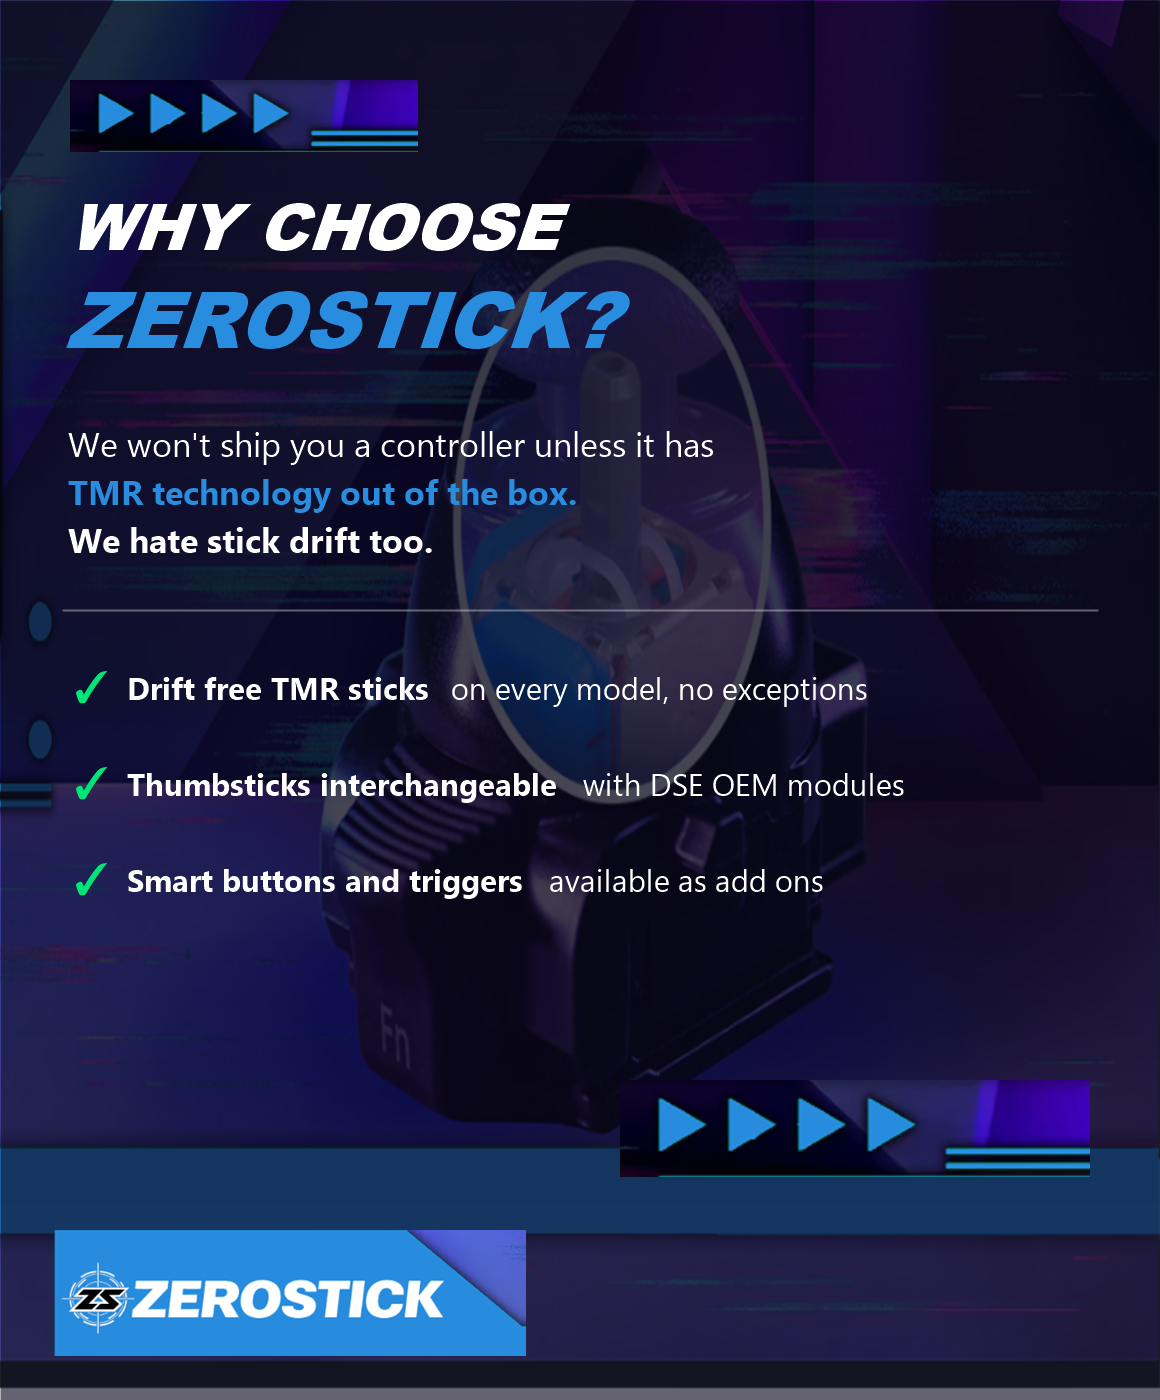
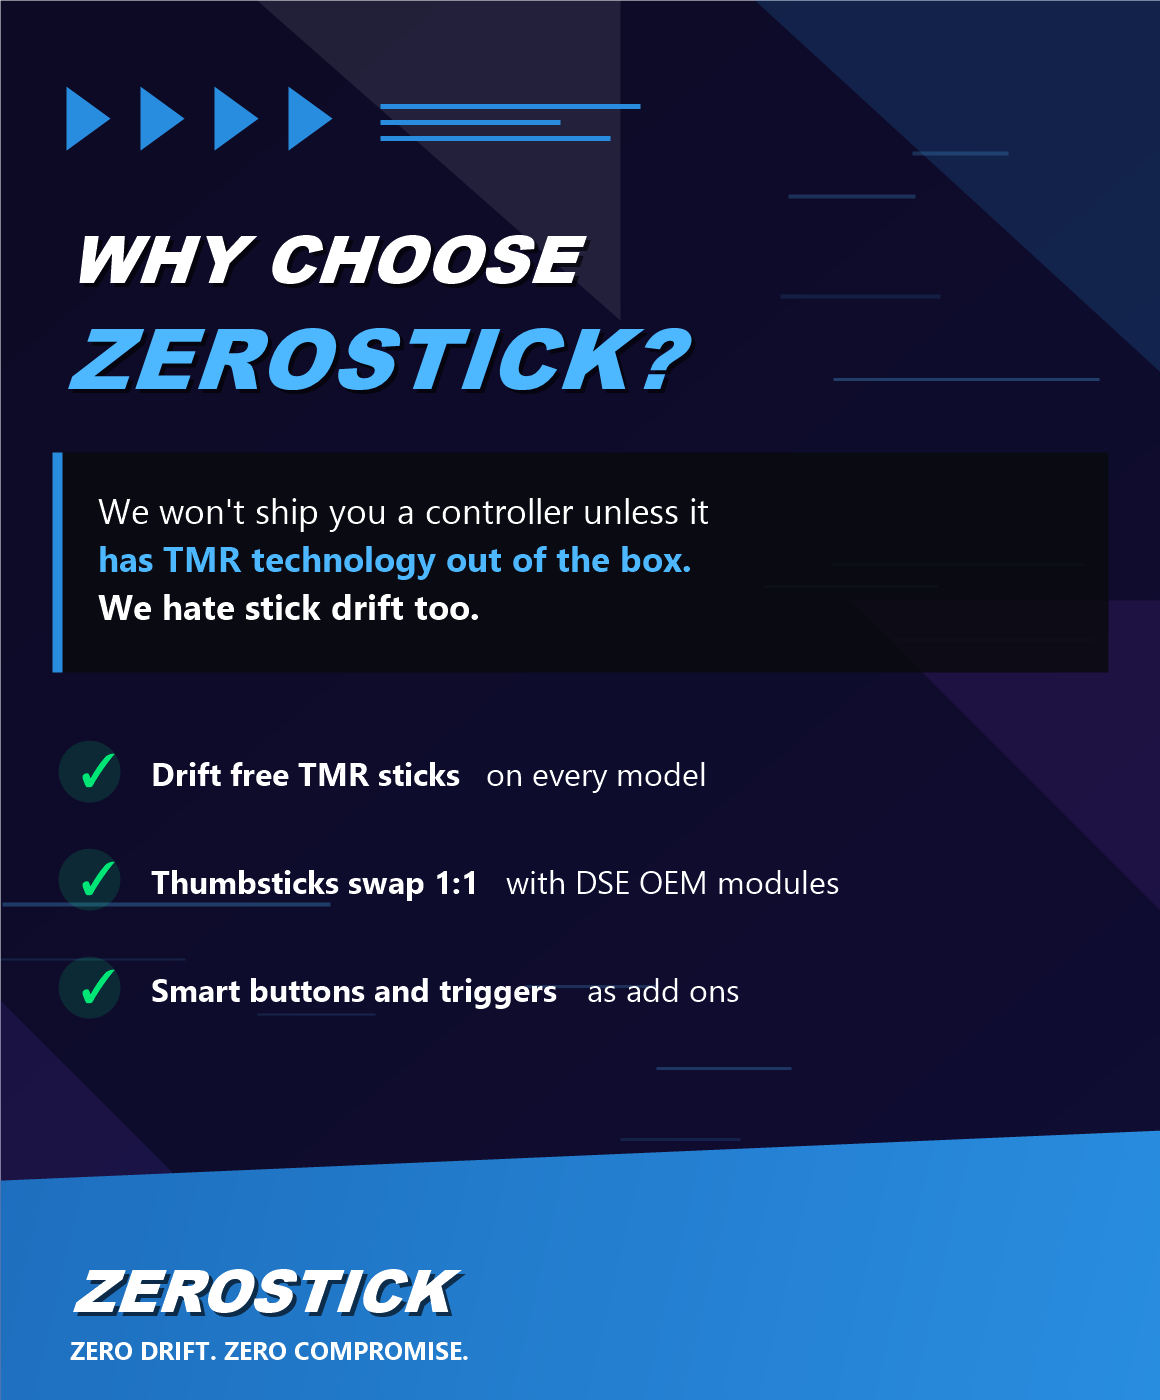
Why ZeroStick graphic redrawn from scratch + Nintendo row added
- zs-why-zerostick.png rebuilt as pure vector-style art (gradient bg,
  shards, glitch lines, chevrons, black promise panel, checklist,
  angled ZEROSTICK band) - no more cropped-image seams
- Product section now has a full-width Nintendo Switch 2 row under the
  PS5/DSE duo, linking to the Switch Pro TMR controller

diff --git a/assets/zs-site.css b/assets/zs-site.css
@@ -663,3 +663,16 @@ footer, .footer { background: var(--black); color: #fff; padding: 64px 0 32px; }
   .m-video { padding: 64px 32px 80px; }
   .m-video-box { max-width: 920px; margin: 0 auto; }
 }
+
+/* ── Nintendo row: full-width horizontal card under the product duo ── */
+.m-duo-row { grid-column: 1 / -1; }
+.m-duo-row-link { flex-direction: row; align-items: center; gap: 16px; }
+.m-duo-row-img { flex: 0 0 42%; aspect-ratio: 4 / 3; margin-bottom: 0; }
+.m-duo-row-body { flex: 1; display: flex; flex-direction: column; }
+.m-duo-row-body p { margin-bottom: 12px; }
+.m-duo-row-body .btn { align-self: flex-start; padding: 11px 26px; }
+@media (min-width: 768px) {
+  .m-duo-row-img { flex: 0 0 34%; }
+  .m-duo-row-body h3 { font-size: 21px; }
+  .m-duo-row-body p { font-size: 15px; }
+}
